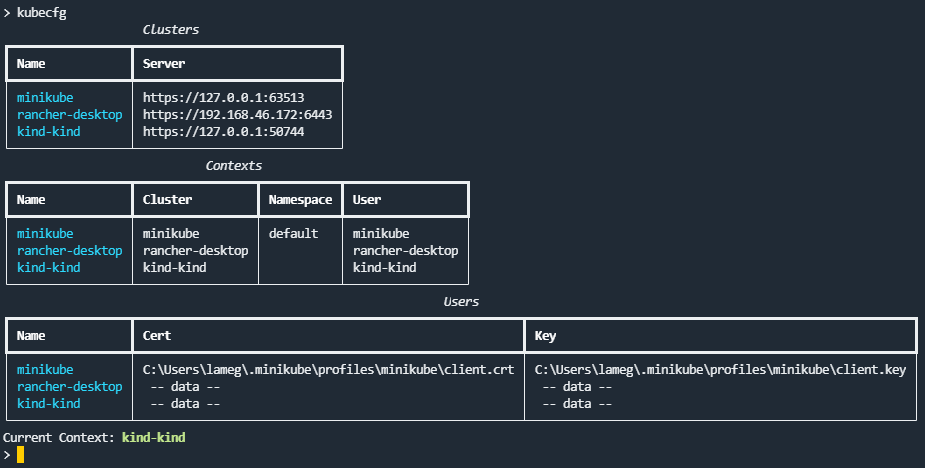
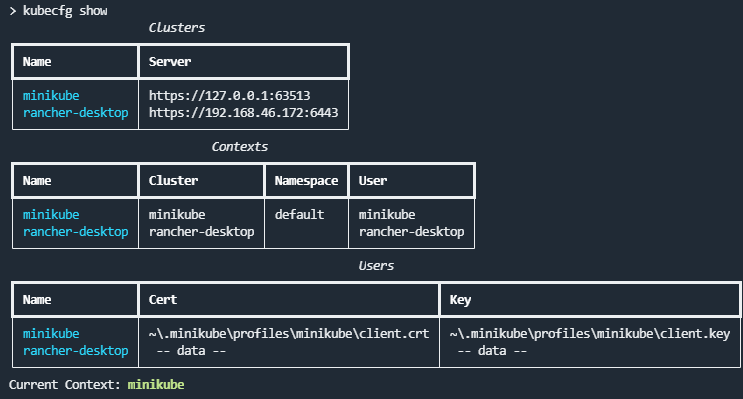
Added ping

Changed region(s): [[0.0, 0.0, 1.0, 0.9925]]

diff --git a/kubecfg/config.py b/kubecfg/config.py
@@ -1,8 +1,12 @@
+from base64 import b64decode
 import os
+from tempfile import NamedTemporaryFile
 import yaml
 from pathlib import Path
 from rich.console import Console
 from rich.table import Table
+from metadict import MetaDict
+
 
 KUBE_CONFIG_DEFAULT_LOCATION = os.environ.get("KUBECONFIG", "~/.kube/config")
 
@@ -15,6 +19,7 @@ class KubeConfig:
     def __init__(self):
         self.path = Path(KUBE_CONFIG_DEFAULT_LOCATION).expanduser()
         self.console = Console()
+        self.config = None
 
     def load_config(self):
 
@@ -31,7 +36,7 @@ class KubeConfig:
             raise ConfigException(
                 "Invalid kube-config. " "%s file is empty" % self.path
             )
-        self.config = config
+        self.config = MetaDict(config)
         return config
 
     def show_clusters(self):
@@ -62,9 +67,9 @@ class KubeConfig:
                 "Invalid kube-config. " "%s has no contexts defined" % self.path
             )
         for context in contexts:
-            cluster = context["context"].get("cluster")
-            namespace = context["context"].get("namespace")
-            user = context["context"].get("user")
+            cluster = context.context.get("cluster")
+            namespace = context.context.get("namespace")
+            user = context.context.get("user")
             table.add_row(context["name"], cluster, namespace, user)
         self.console.print(table)
 
@@ -90,4 +95,63 @@ class KubeConfig:
     def show_current(self):
         current = self.config.get("current-context")
         if current:
-            self.console.print(f"Current Context: [bold green]{current}[/]")
+            self.console.print(
+                f"Current Context: [bold green]{self.current_context}[/]"
+            )
+
+    @property
+    def contexts(self):
+        return self.config.contexts
+
+    @property
+    def clusters(self):
+        return self.config.clusters
+
+    @property
+    def users(self):
+        return self.config.users
+
+    @property
+    def current_context(self):
+        return self.config.get("current-context")
+
+    def get_generic(self, container: dict, name: str):
+        for item in container:
+            if item.name == name:
+                return item
+        raise KeyError(f"{name} not found", name)
+
+    def get_context(self, context_name: str) -> dict:
+        return self.get_generic(self.contexts, context_name)
+
+    def get_cluster(self, cluster_name: str) -> dict:
+        return self.get_generic(self.clusters, cluster_name)
+
+    def get_user(self, user_name: str) -> dict:
+        return self.get_generic(self.users, user_name)
+
+    def get_auth_data(self, context_name: str = None) -> tuple:
+        if context_name is None:
+            context_name = self.current_context
+        context = self.get_context(context_name)
+        cluster_info = self.get_cluster(context.context.cluster)
+        user_info = self.get_user(context.context.user)
+
+        def create_tmp_file(data):
+            if data:
+                tmp_file = NamedTemporaryFile(delete=False)
+                tmp_file.write(b64decode(data))
+                tmp_file.close()
+                return tmp_file.name
+
+        client_ca_data = cluster_info.cluster.get("certificate-authority-data")
+        client_key_data = user_info.user.get("client-key-data")
+        client_cert_data = user_info.user.get("client-certificate-data")
+        client_key_file = user_info.user.get("client-key")
+        client_cert_file = user_info.user.get("client-certificate")
+        client_ca_file = create_tmp_file(client_ca_data)
+        client_key_file = client_key_file or create_tmp_file(client_key_data)
+        client_cert_file = client_cert_file or create_tmp_file(client_cert_data)
+        cert = (client_cert_file, client_key_file)
+        server = cluster_info.cluster.server
+        return server, cert, client_ca_file

diff --git a/kubecfg/cli/ping.py b/kubecfg/cli/ping.py
@@ -1,0 +1,47 @@
+import typer
+from kubecfg.config import KubeConfig
+from typing import Optional
+import httpx
+from rich import print
+import sys
+
+
+def ping(
+    context_name: Optional[str] = typer.Argument(None, help="The name of the image"),
+    timeout: Optional[int] = 30,
+):
+    """ check if the API server is available """
+    kubeconfig = KubeConfig()
+    kubeconfig.load_config()
+    if context_name is None:
+        context_name = kubeconfig.current_context
+    if context_name is None:
+        print(
+            "[red]You have no current context, please provide a context name[/]",
+            file=sys.stderr,
+        )
+        exit(1)
+    try:
+        server, cert, client_ca = kubeconfig.get_auth_data(context_name)
+    except KeyError:
+        print(f"Context '[bold red]{context_name}[/]' was not found!", file=sys.stderr)
+        available_contexts = ", ".join([k.name for k in kubeconfig.contexts])
+        print(
+            f"Available contexts: [bold cyan]{available_contexts}[/]", file=sys.stderr
+        )
+        exit(1)
+
+    http_client = httpx.Client(cert=cert, verify=client_ca, timeout=timeout)
+    print(f"Pinging {context_name} at {server} ... ", end="")
+    try:
+        r = http_client.get(server)
+    except httpx.ConnectTimeout:
+        print("[red]Timeout while trying to get answer from server[/]", file=sys.stderr)
+        exit(2)
+    r.raise_for_status()
+    print(r)
+
+    version_url = f"{server}/version"
+    r = http_client.get(version_url)
+    r.raise_for_status()
+    print(r.text)

diff --git a/kubecfg/__main__.py b/kubecfg/__main__.py
@@ -1,14 +1,15 @@
-from .config import KubeConfig
+import typer
+from .cli import main, show, ping
 
 
-def main():
-    kubeconfig = KubeConfig()
-    kubeconfig.load_config()
-    kubeconfig.show_clusters()
-    kubeconfig.show_contexts()
-    kubeconfig.show_users()
-    kubeconfig.show_current()
+def app_main():
+    app = typer.Typer(short_help="Cool")
+
+    app.callback()(main.main)
+    app.command()(show.show)
+    app.command()(ping.ping)
+    app()
 
 
 if __name__ == "__main__":
-    main()
+    app_main()

diff --git a/kubecfg/cli/show.py b/kubecfg/cli/show.py
@@ -1,0 +1,11 @@
+from kubecfg.config import KubeConfig
+
+
+def show():
+    """ show the kubeconfig """
+    kubeconfig = KubeConfig()
+    kubeconfig.load_config()
+    kubeconfig.show_clusters()
+    kubeconfig.show_contexts()
+    kubeconfig.show_users()
+    kubeconfig.show_current()

diff --git a/kubecfg/cli/main.py b/kubecfg/cli/main.py
@@ -1,0 +1,9 @@
+state = {"verbose": False}
+
+
+def main(verbose: bool = False):
+    """
+    Utility to show and test kubernetes client configurations
+    """
+    if verbose:
+        state["verbose"] = True

diff --git a/README.md b/README.md
@@ -7,7 +7,11 @@ Python library and cli utility to check k8s client configurations
 [![Code style: black](https://img.shields.io/badge/code%20style-black-000000.svg?style=flat-square)](https://github.com/ambv/black)
 
 
+Show configuration
 ![Features](https://github.com/joaompinto/kubecfg/raw/main/imgs/features.png)
+
+Test connectivity
+![Features](https://github.com/joaompinto/kubecfg/raw/main/imgs/ping.png)
 
 # Install
 ```sh
